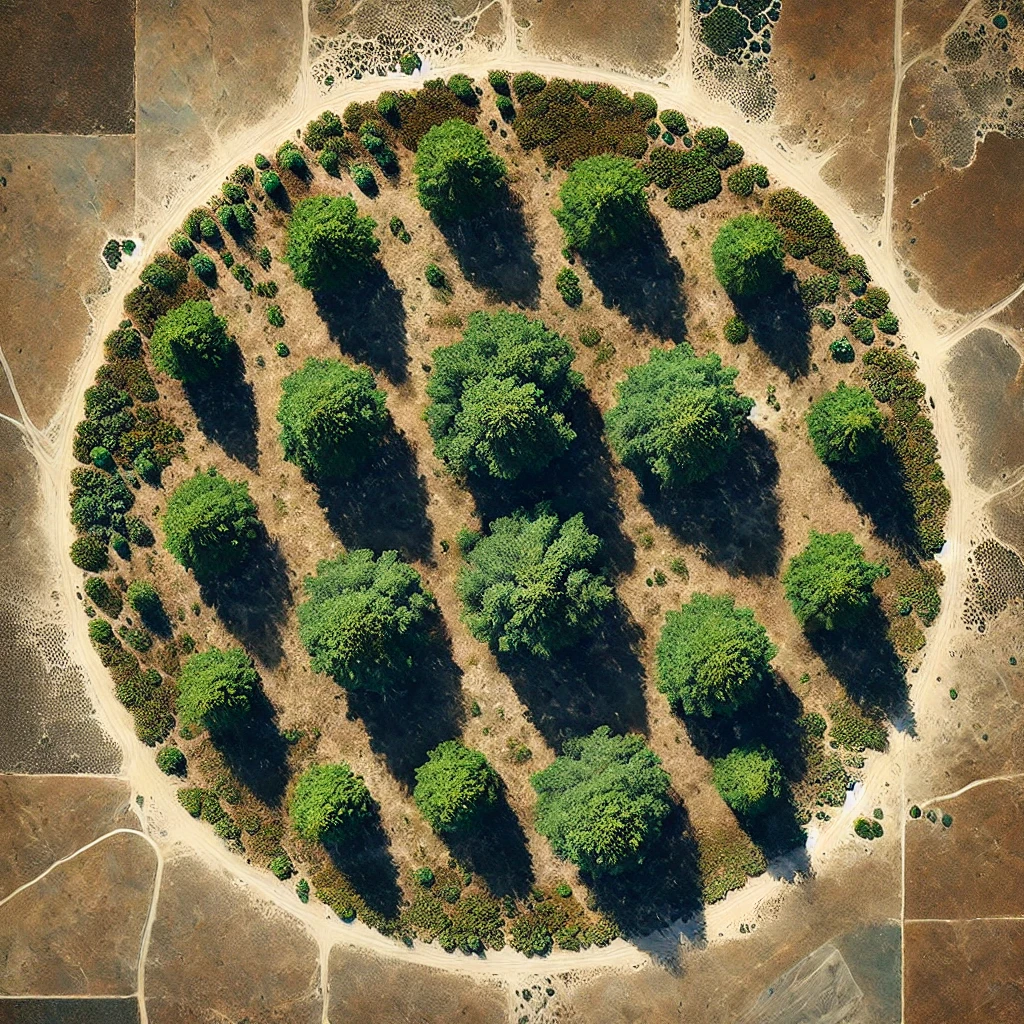
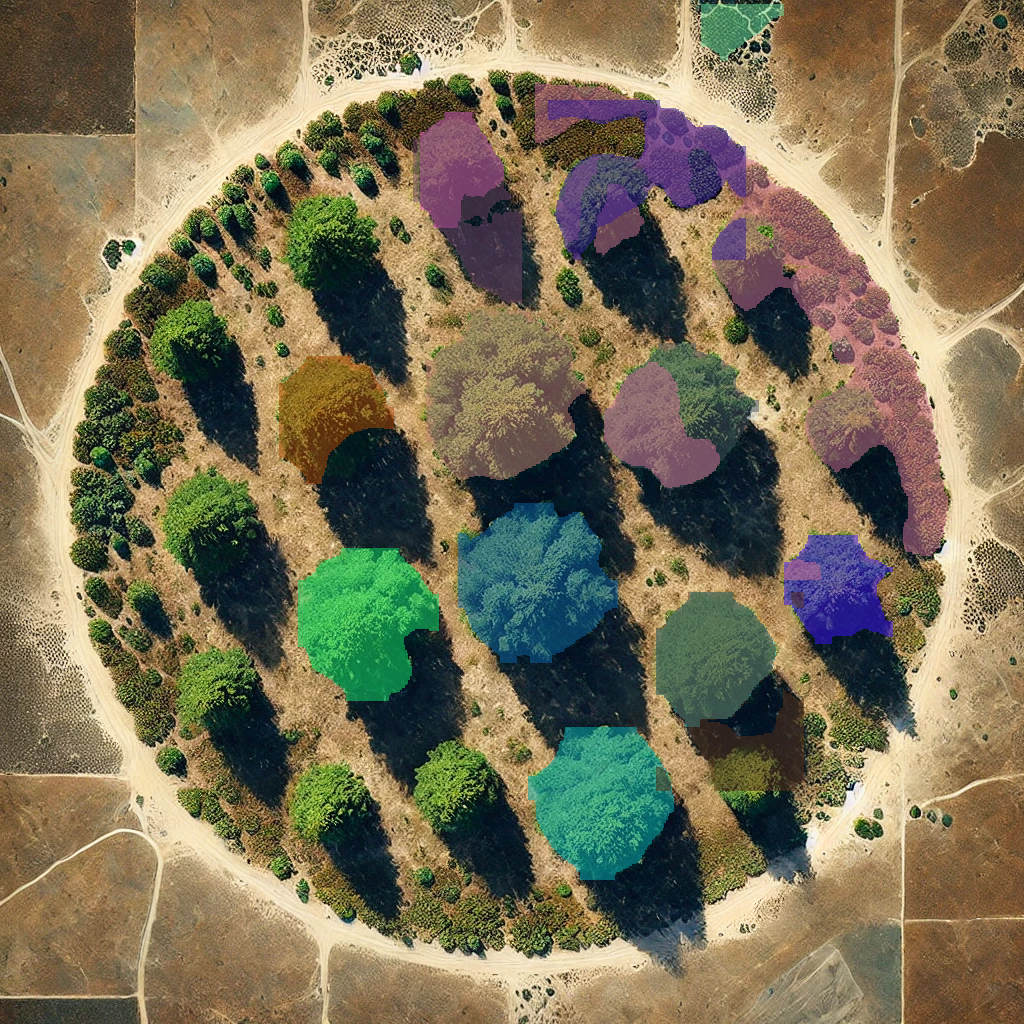
feat: estrutura

Changed region(s): [[0.25, 0.0625, 0.9375, 0.6875], [0.5, 0.5625, 0.7812, 0.875], [0.6875, 0.0, 0.7812, 0.0625]]

diff --git a/src/modelos/yolo_model/model_v1/segmente_calc.py b/src/modelos/yolo_model/model_v1/segmente_calc.py
@@ -30,7 +30,7 @@ def estimate_trees_interval(forest_pixels, pixels_per_tree_min=2000, pixels_per_
     return estimated_trees_min, estimated_trees_max
 
 # Carregar o modelo
-model = YOLO('../trainning_v2/yolov8s-seg.pt')
+model = YOLO('./best.pt')
 
 # Carregar a imagem
 image = cv2.imread('./img/view/img.png')
